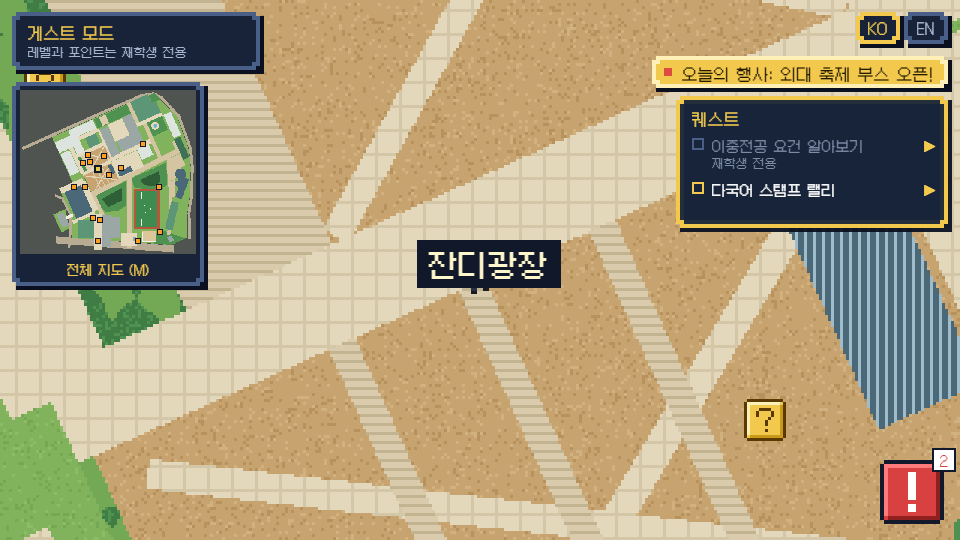
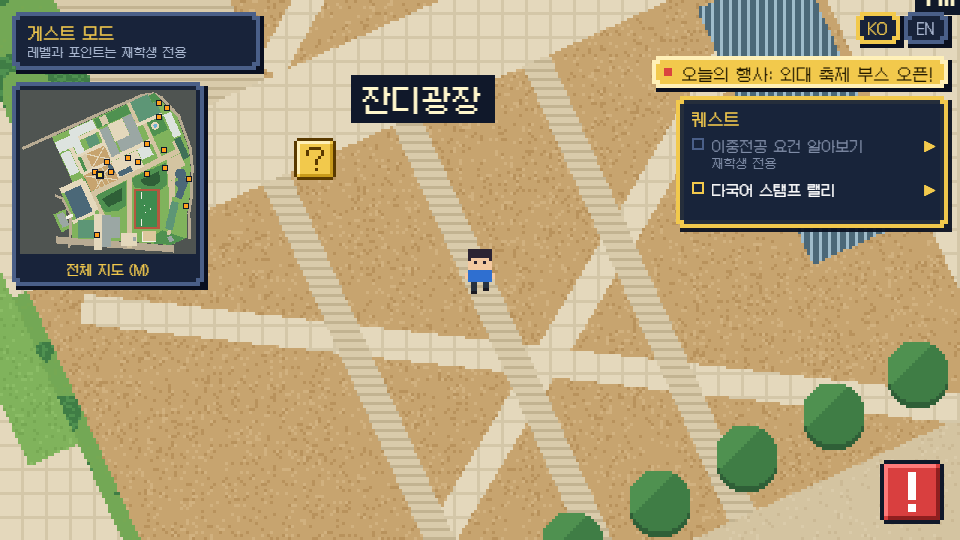
docs: GRAPHICS.md에 맵 v2(회전 각도 · 측정 근거 · 그리는 방식 · 판정 규칙 · 팔레트 · 성능 실측) 추가
- 0장: 진입로 방위 294.4°(운동장 남서쪽 트랙 변) → 65.6° 회전, 다각형 → 2×2 텍스처, 1m 판정 격자,
  베이지 길 팔레트, 성능(맵 그리기 237ms · 텍스처 9.6MB · 프레임 CPU 0.16ms) · 휴대폰 확인 방법
- ARCHITECTURE.md 캠퍼스 탐험 줄을 v2 파일 구조로
- 잔디광장 스크린샷 다시 찍음(이름표가 캐릭터를 가리지 않게)

diff --git a/docs/GRAPHICS.md b/docs/GRAPHICS.md
@@ -1,12 +1,79 @@
 # 🎨 HUFS Quest 그래픽 사양서 (캠퍼스 맵 · 타일)
 
 > 캠퍼스 맵을 실제 서울캠퍼스와 비슷하게 다시 그리기 위한 기준입니다. 배치(2단계)와 색감·외관(3단계) 작업은 이 문서만 보고 할 수 있게 씁니다.
-> 마지막 수정: 2026-11-22 (**1단계 확정** — 88×90, 공식 좌표 기준 배치, 시연 동선 · 확인 필요 답변 반영, 이종헌 승인) · 로드맵 🔴 "맵 그래픽 개선 + 현행화"
+> 마지막 수정: 2026-11-22 (**맵 v2** — 정문 진입로 기준 회전, 미터 다각형 → 텍스처, 1m 판정 격자. 0장) · 로드맵 🔴 "맵 그래픽 개선 + 현행화"
+> 1~9장은 v1(북쪽 위 88×90 타일맵) 기준입니다. v1은 주소에 `?map=v1`을 붙이면 그대로 뜨며, 12/2 기능 동결 뒤 이상 없으면 코드와 함께 지웁니다.
 > 근거: HUFS MAP 공식 좌표(www.hufs.ac.kr/campusMap/hufs/view.do, 사용자가 미터로 변환해 전달), 네이버 지도 위성 사진, 공식 조감도 · 캠퍼스맵 일러스트
 
 > **참고 사진은 보고 따라 그리기만 합니다.** 위성 사진 · 지도 화면 · 조감도(카카오 · 네이버 지도 타일 포함)를 자르거나 붙이거나 저장소에 넣지 않습니다. 참고 사진은 각자 `.local/campus-ref/`(Git 제외)에만 두고 커밋하지 않습니다. 맵의 모든 그림은 코드(`src/gfx/textures.js` 방식)나 직접 찍은 도트로만 만듭니다.
 
 ---
+
+## 0. 맵 v2 (기본 맵)
+
+### 0-1. 방향: 정문에서 들어서는 시선
+
+- **정문(외국어대 교차로 쪽)에서 캠퍼스로 들어가는 진입로가 화면 아래 → 위로 곧게** 서도록 맵 전체를 **시계 방향 65.6°** 돌렸습니다(`src/data/campusV2Data.js` `ROTATION_DEG`). 정문에서 위를 보면 대운동장이 오른쪽, 사이버관(경영대학)이 왼쪽입니다.
+- 측정 근거: 진입로는 운동장 남서쪽 트랙 변과 나란히 붙어 있습니다. 위성 사진에서 트랙 남서쪽 변 양 끝(px (663, 600) → (927, 727))을 공식 좌표 맞춤식으로 미터로 바꾸면 **동쪽에서 남쪽으로 24.4°** 기울어 있고, 정문에서 들어가는 방향은 **방위각 294.4°**입니다. 이 방향을 화면 위로 세우는 각도가 360 − 294.4 = 65.6°입니다.
+  - 진입로 중심선을 직접 두 점으로 재면 18~25°로 흔들려(가로수 그늘 · 차선 경계가 흐림) 직선이 분명한 트랙 변을 기준으로 삼았습니다.
+  - 더 선명한 위성 사진(`naver-satellite-2.png`)으로 다시 재는 일은 파일이 `.local/campus-ref/`에 들어오면 합니다(12장). 2°보다 크게 바뀌면 알립니다.
+- 북쪽은 화면 위에서 시계 방향 65.6° 쪽(오른쪽 위)입니다. 전체 지도(M) 오른쪽 위 나침반이 북쪽을 가리키고, 안내 문구는 "정문 기준 방향, 북쪽은 나침반 참고"입니다.
+
+### 0-2. 그리는 방식: 미터 다각형 → 한 장의 맵 텍스처
+
+| 단계 | 파일 | 내용 |
+| --- | --- | --- |
+| 데이터 | `src/data/campusV2Data.js` | 건물 · 길 · 광장 · 숲 · 주차장 · 운동장 · 바깥 도로를 **미터 좌표(E, N) 다각형**으로. 그리는 순서 = 배열 순서. 가로수는 원(그림만) |
+| 계산 | `src/data/campusV2.js` | 65.6° 회전 → **1m = 4px** 픽셀에 직접 채움(픽셀 가운데가 다각형 안이면 칠함 → 안티앨리어싱 없는 곧은 픽셀 선). 판정 격자 · 이동 · 입구 · 퀴즈 상자 자리 |
+| 색칠 | `src/gfx/campusV2Paint.js` | 재질별 색 · 무늬(0-4 팔레트), 건물 옥상 · 테두리 · 화면 아래쪽 벽 · 창문 · 입구, 가로수 |
+| 텍스처 | `src/gfx/campusV2Texture.js` | **2×2 조각**(각 820×766px)으로 나눠 등록 — 모바일 WebGL 한도 4096px 안. 전체 지도 · 미니맵은 1m = 1px 축소 그림 |
+| 선택 | `src/data/world.js` | 기본 v2, `?map=v1`이면 옛 타일맵. 화면 코드는 이 파일만 봅니다 |
+
+- 동쪽 캠퍼스(운동장 · 사이버관 · 교수회관 · 정문 · 농구 코트)는 원래 진입로와 같은 축이라 회전 뒤 화면 축과 나란한 사각형이 되고, 서쪽 캠퍼스(본관 · 인문과학관 · 도서관 등 남북 방향 건물)와 가운데 남북 큰길은 비스듬한 곧은 선이 됩니다. 계단식 근사는 없습니다.
+- 건물 모양은 위성 사진, 위치는 공식 좌표(공식 좌표 점이 건물 다각형 안 — 테스트).
+
+### 0-3. 걷기 판정(1m 격자)
+
+- 기본은 **걸을 수 있음**. 막는 것: 건물, 캠퍼스 밖 · 바깥 도로(교수연구동 건널목만 열림), 분수 물, 유리 천창, 아주 빽빽한 숲 덩어리 2곳(운동장 서쪽 · 남서쪽 숲 가운데).
+- 나무 사이 산책 숲 · 가로수 · 골목 · 건물 옆 통로 · 주차장 · 광장 · 계단 단 · 운동장은 모두 걸을 수 있습니다.
+- 캐릭터 발 상자(10×7px = 2.5m × 1.75m)가 막힌 칸에 닿지 않게 움직이고, 막히면 x · y 따로 → ±35° · ±65° 틀어서 비스듬한 벽을 따라 미끄러집니다(`moveFeet`).
+- 입구는 건물의 화면 아래쪽 벽(문이 보이는 면) 가운데에서 가장 가까운, 걸어서 닿는 칸에 자동으로 둡니다. 아래쪽 벽에 닿는 칸이 없으면 옆면 · 위쪽 면(교수연구동은 건널목 쪽 옆면).
+- 테스트(`tests/campusV2.test.js`): 공식 좌표가 건물 안 · 건물 겹침 없음 · 입구 앞 · 안내원 · 퀴즈 상자 자리가 걸을 수 있고 SPAWN에서 닿음 · **통로 8곳**(대학원 옆, 국제관 옆, 법학관–학생회관 사이, 사회과학관 앞, 도서관 서쪽 · 동쪽, 사이버관–교수회관 사이, 정문 진입로) · **끼임 방지**(SPAWN → 모든 입구 BFS 경로를 실제 이동 함수로 따라 걸어 도착, 진입로를 위로만 눌러 끝까지 감).
+
+### 0-4. 팔레트 v2 (길은 베이지 계열)
+
+| 이름 | 16진 | 쓰는 곳 |
+| --- | --- | --- |
+| 차도 | `#d4c4a1` (점 `#cbb995` · `#dacbaa`) | 캠퍼스 안 차도, 주차장 바탕 |
+| 보행로 · 광장 | `#e4d8bc` (줄눈 `#d4c7a8`, 8px) | 보행로, 광장, 정문 광장 — 차도보다 한 단 밝게 |
+| 주차선 | `#eee6d3` | 주차장(베이지 + 옅은 선) |
+| 흙 광장 | `#c7a46f` (점 `#b8925c` · `#d1b17f`) | 잔디광장(X자 · 대각선 산책로가 있는 흙 광장) |
+| 계단 단 | `#d9cbab` / 줄 `#c2b391` | 잔디광장 계단, 본관 서쪽 반원 계단 |
+| 잔디 | `#80b35c` (`#76a853` · `#8bbd66`) | 잔디 |
+| 산책 숲 | `#73a855` + 잎 `#3f7d45` · `#4f9150` | 나무 사이 산책로(걸을 수 있음), 가로수 |
+| 빽빽한 숲 | `#2f5f37` · `#3a7040` | 걸을 수 없는 숲 덩어리 |
+| 인조잔디 | `#3e8b4f` / `#378048`(줄무늬) | 대운동장 |
+| 트랙 | `#b5573f` (`#a94f39`) | 운동장 둘레 |
+| 흰 선 | `#f2f0e6` | 운동장 · 농구 코트 선, 건널목 |
+| 농구 코트 | `#dcc79c` | 운동장 남동쪽 코트 |
+| 물 | `#6fb3d6` (`#8fc6e2`) | 인문과학관 앞 원형 분수 |
+| 바깥 도로 | `#b8ab93` (차선 `#d9cfba`) | 이문로9길 · 천장산로 방향 · 이문로 · 이문로25길 |
+| 캠퍼스 밖 | `#4f5451` (빗금 `#464b48`) | 그리지 않는 곳 |
+| 옥상 | 회색 `#9ba7a4` · 흰색 `#dde3df` · 녹색 `#5d9676` · 진녹색 `#3f7058` · 청록 `#5f8f9a` · 태양광 `#4b6878`(칸 줄 `#9fbccb`) | 3장 · 5-3 표와 같음 |
+| 벽 · 창 · 문 | `#e7e0cf` · `#4b6878`/`#9fbccb` · `#5b3a26` | 화면 아래쪽 벽(높이: 낮음 6px · 중간 10px · 높음 14px) |
+
+### 0-5. 성능(실측)
+
+| 항목 | v2 | v1(비교) | 잰 곳 |
+| --- | --- | --- | --- |
+| 시작할 때 맵 그리기 | 237ms (다른 실행 668ms) | 장면 시작 223ms | 데스크톱 Chrome, 개발 서버 |
+| 맵 텍스처 | 1640×1532px, 2×2 조각(820×766), GPU 약 9.6MB | 타일셋 1장 | 계산값 |
+| JS 메모리 증가(캠퍼스 입장) | 약 +15MB | 약 +10MB | `performance.memory` |
+| 한 프레임 CPU 처리 | 0.16ms | 1.03ms | 120프레임 평균(그리기 대기 제외) |
+| node에서 래스터 · 판정 격자 · BFS | 36ms · 4ms · 34ms | — | `npm test` 환경 |
+
+- 매 프레임 그리는 것은 큰 이미지 4장이라 타일맵보다 가볍습니다. 시작 시간은 휴대폰에서 2~3배 길 수 있습니다(한 번만).
+- **휴대폰 확인 방법**: Preview 주소를 휴대폰 Chrome으로 열고 "게스트로 둘러보기" → 정문에서 진입로를 따라 걸으며 끊김이 있는지 봅니다. 숫자가 필요하면 PC Chrome `chrome://inspect`로 휴대폰 탭을 원격 디버깅해 콘솔에서 `__campusStats`(`paintMs` 시작 그리기 시간, `fps` 지금 프레임)를 읽습니다. 콘솔 첫 줄에도 `[campus v2] 맵 그리기 …ms`가 찍힙니다. 비교는 같은 주소 뒤에 `?map=v1`.
 
 ## 1. 기본 규칙
 
@@ -361,7 +428,7 @@ HUFS MAP 건물 좌표(기준점 37.5975, 127.0585에서 잰 미터, E=동쪽+, 
 
 | 항목 | 지금 처리 | 필요한 것 |
 | --- | --- | --- |
-| HUFS MAP 화면(`hufs-map.png`)으로 경계 · 흰 길 대조 | 위성 사진만으로 잡음 | 파일이 `.local/campus-ref/`에 들어오면 2단계에서 경계 · 흰 길만 대조 |
+| HUFS MAP 화면(`hufs-map.png`) · 선명한 위성 사진(`naver-satellite-2.png`)으로 회전 각도 · 통로 · 경계 다시 재기 | 2026-11-22 기준 두 파일이 `.local/campus-ref/`에서 보이지 않아 기존 위성 사진으로 잼 | 파일 위치 확인 → 다시 재서 0-1 각도 · `campusV2Data.js` 갱신(2°보다 크게 바뀌면 알림) |
 | 정문&진입광장 영어 이름 | PENDING(화면은 한국어 이름) | HUFS MAP English 항목 오기 여부 |
 | 출판부 · 교수연구동 외관 | 사진 끝에 걸려 크기 추정 | 현장 확인 또는 더 넓은 위성 사진 |
 
@@ -373,3 +440,4 @@ HUFS MAP 건물 좌표(기준점 37.5975, 127.0585에서 잰 미터, E=동쪽+, 
 | --- | --- | --- |
 | 2026-11-22 | 1단계 초안: 축척 · 좌표계 · 맵 크기(88×90), 24색 팔레트, 바닥 · 건물 규칙, 건물 대응 · 좌표 변환 표, 새 배치 격자 | 이종헌(AI 작성) |
 | 2026-11-22 | 1단계 확정: 시연 동선, 휴게공간 오디 제외 · 정문안내실 위치 · 잔디광장 · 정문&진입광장 추가(영어 이름 HUFS MAP English 대조) · 지하 건물 규칙 | 이종헌 |
+| 2026-11-22 | 맵 v2: 정문 진입로 기준 65.6° 회전, 미터 다각형 → 2×2 텍스처, 1m 판정 격자, 베이지 길 팔레트, 통로 · 끼임 방지 테스트, 성능 실측, `?map=v1` 되돌리기(0장) | 이종헌 |

diff --git a/docs/ARCHITECTURE.md b/docs/ARCHITECTURE.md
@@ -93,9 +93,9 @@ class explore,quiz,notice,progress,rules,userDb,login,limiter,mapInfo,newApi,vec
 
 | 상자 | 주요 파일 | 담당 |
 | --- | --- | --- |
-| 캠퍼스 탐험 | `src/scenes/CampusScene.js`, `src/scenes/MapScene.js`(전체 지도, 1타일 5px), `src/data/campus.js`(**88×90 · 북쪽 위 · 1타일 4m**, 바닥 격자 `GROUND` + 건물 `parts` · `door` · HUFS MAP 공식 좌표, 기준은 [`docs/GRAPHICS.md`](GRAPHICS.md)), `src/gfx/textures.js`. 테스트 `tests/campusLayout.test.js`(건물 겹침 · 입구 · NPC · 퀴즈 상자 자리 · SPAWN에서 BFS 도달 · 공식 좌표 · `buildingInfo.js` id 일치) | 이종헌 |
+| 캠퍼스 탐험 | `src/scenes/CampusScene.js`, `src/scenes/MapScene.js`(전체 지도 · 나침반), `src/data/world.js`(맵 선택: 기본 v2, `?map=v1`이면 옛 타일맵 — 12/2 동결 뒤 이상 없으면 v1 삭제). **v2**: `src/data/campusV2Data.js`(미터 좌표 다각형) → `src/data/campusV2.js`(정문 진입로 기준 65.6° 회전 · 픽셀 채우기 · 1m 판정 격자 · 발 상자 이동 · 입구 · 퀴즈 상자 자리) → `src/gfx/campusV2Paint.js` · `campusV2Texture.js`(2×2 조각 텍스처, 축소 지도). **v1**: `src/data/campus.js`(88×90 타일), `src/gfx/textures.js`. 기준은 [`docs/GRAPHICS.md`](GRAPHICS.md). 테스트 `tests/campusV2.test.js`(통로 · 끼임 방지 포함) · `tests/campusLayout.test.js`(v1) | 이종헌 |
 | 빠른 검색창 | `src/ui/searchBar.js` → `src/data/askApi.js` → `api/ask.js` (11/20~ `shared/academicDate.js`: 한국 시간 오늘 날짜 · 현재 학기를 지시문에 붙이고, 답변의 날짜(연-월-일 · 월-일)나 연도(YYYY학년도 · YYYY년)가 근거 조각에 없으면 "찾지 못함"으로 바꿈. 테스트 `tests/academicDate.test.js`. 11/20~ `api/_lib/decompose.js`: 질문을 하위 질문 최대 2개로 쪼개(`parseQueries`) 하위 질문마다 동시에 벡터 검색하고 `mergeDocs`로 합침, RPC는 `CHUNKS_RPC`(match_chunks · match_chunks_next만 허용). 테스트 `tests/decompose.test.js`. `api/_lib/answerFormat.js`: 답변의 줄 맨 앞 번호 목록을 지우고, 넘긴 자료 수를 넘는 인용 번호를 지움. 11/22~ 출력 상한(400)에 걸려 끊긴 답은 끝난 문장까지만(`trimTruncated`). 테스트 `tests/answerFormat.test.js`) | 신중혁 |
-| O/X 퀴즈 | `src/scenes/QuizScene.js`, `src/quizBoxes.js`(상자 자리는 `campus.js` `quizBoxTiles`), `src/quizProgress.js`, `src/data/quiz.js` | 이종헌(배치) · 신중혁(문항) |
+| O/X 퀴즈 | `src/scenes/QuizScene.js`, `src/quizBoxes.js`(상자 자리는 `world.js` `WORLD.quizSpots`), `src/quizProgress.js`, `src/data/quiz.js` | 이종헌(배치) · 신중혁(문항) |
 | 마감 임박 공지 | `src/ui/deadlineOverlay.js` → `api/deadlines.js` ← `shared/deadlines.js` | 이종헌(화면) · 임현규(데이터) · 신중혁(추출) |
 | 건물 정보 · 맵 기준일 | `src/data/buildingInfo.js`(건물 ID 기준: 이름·용도·층별 사무실·출처·확인일·상태, `MAP_BASE_DATE` · `OFFICIAL_MAP_URL` · `REPORT_FORM_URL` · `REPORT_FORM_PLACE_ENTRY` · `reportFormUrl()`) → `src/data/campus.js`(ID·위치만, 이름은 여기서 붙여 내보냄. `onMap: false`인 장소는 맵에 그리지 않음) · `src/data/npcs.js`(대사 없는 건물은 확인된 용도 표시) · `src/scenes/MapScene.js` `drawMapBasis`(기준일 · 공식 지도 · 신고 버튼, 폼 주소가 비면 신고 버튼 숨김) · `scripts/report-form/`(구글 폼 생성 Apps Script, 건물 이름 목록은 `buildPlaceList.mjs`가 `buildingInfo.js`에서 만듦) · `tests/reportFormUrl.test.js`. **형식·화면 완료, 신고 폼 연결 완료, 근처 건물 미리 채움**(폼에는 건물 이름 하나만 보냄). 용도·층별 사무실 내용은 아직 | 이종헌(형식·화면) · 임현규(내용) |
 | 사용량 제한 · 답변 캐시 | `api/_lib/usageLimit.js` (한도 상수 분당 10 · 학생 하루 50 · 게스트 IP 하루 150 · 전체 하루 500. **11/19~ 로그인 학생은 계정 기준**: 요청의 로그인 토큰을 Supabase `/auth/v1/user`로 확인해 `@hufs.ac.kr`이면 "user:<id>" 해시로, 아니면(게스트 · 토큰 오류 · 확인 실패) IP 해시로 셈. 해시 = SHA-256(`ASK_IP_SALT` + 한국 날짜 + 계정 또는 IP), 화면 `src/data/askApi.js`가 로그인 토큰을 붙여 보냄, 1차 메모리 제한 → 2차 `ask_hit`, Supabase 실패 시 메모리 제한으로 대체, eval 토큰은 IP 한도만 건너뜀) ← `api/ask.js`가 첫 AI 호출 전에 호출(429 `{ error, reason, retryAfter }`, 200자 초과 400). DB는 `supabase/003_usage_limits.sql`(11/18 실행). 화면 안내 `src/data/askApi.js`(`busy` · `limit`), 테스트 `tests/usageLimit.test.js`. **사용량 제한은 Preview 확인 전, 답변 캐시는 아직** | 임현규 · 신중혁 |
